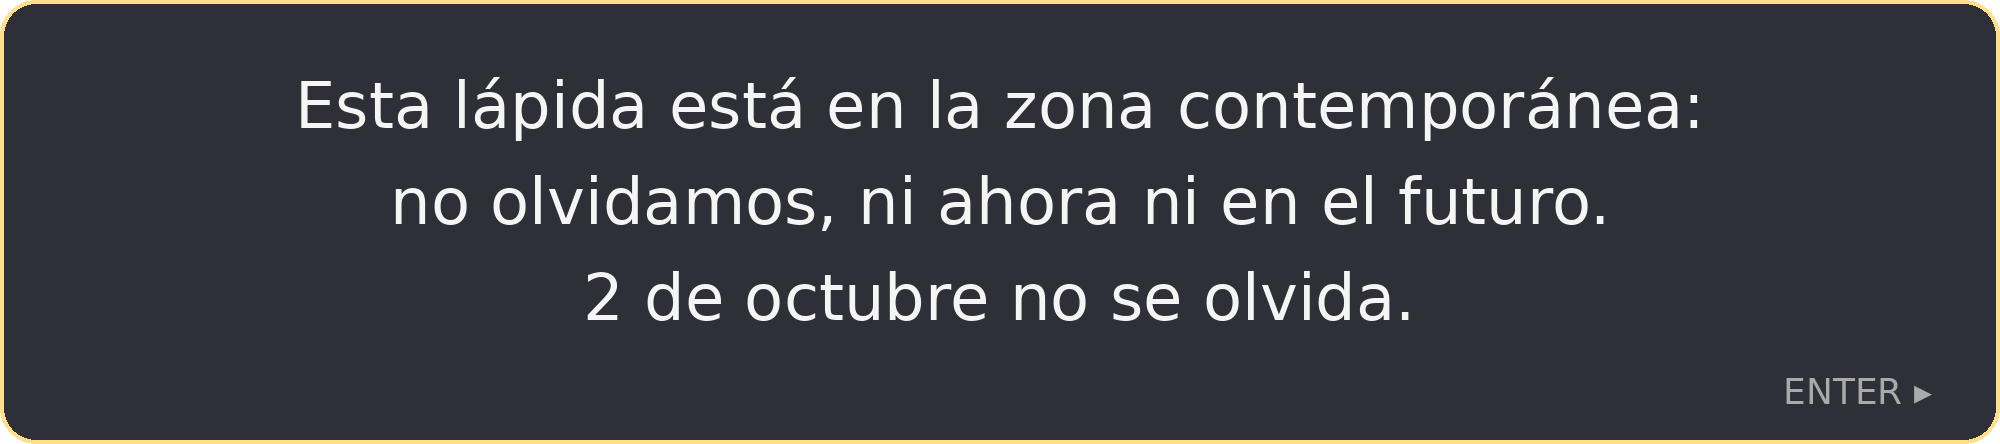
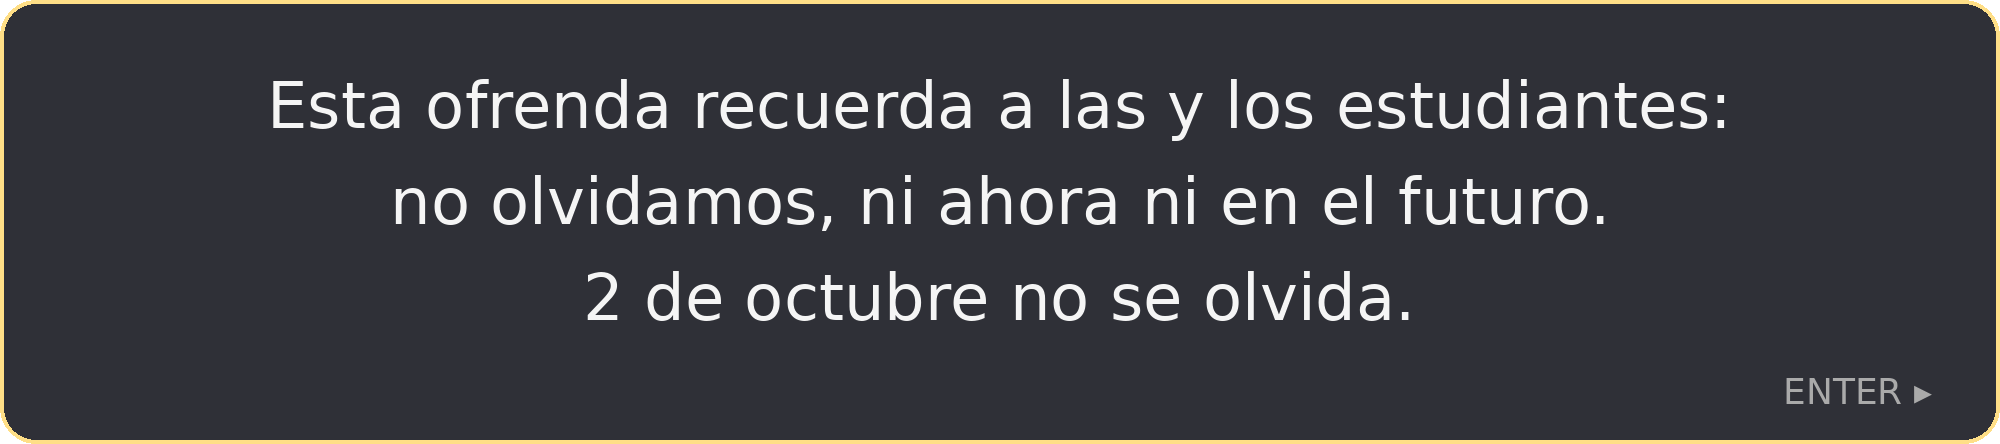
feat: modo de grabacion de video (--grabar, --eventos), texto de la escena final con la ofrenda y guion del video

Changed region(s): [[0.124, 0.1757, 0.868, 0.2928]]

diff --git a/proyecto_teoria/main.cpp b/proyecto_teoria/main.cpp
@@ -26,6 +26,16 @@
 void KeyCallback(GLFWwindow *window, int key, int scancode, int action, int mode);
 static SkinnedModel* skVictoria = nullptr;   // escena 8: CUAU con la animacion "Victory" de Mixamo (huesos)
 static float tVictoria = 0.0f, VICTORIA_ESC = 1.0f;
+// ---- modo de grabacion de video (--grabar salida.mp4 --eventos guion.txt): paso fijo de 1/30 s y eventos con tiempo ----
+struct EvVideo { float t; std::string tipo; std::string arg; float v[6]; bool hecha; };
+static int NombreATecla(const std::string& k)
+{
+	if (k == "SPACE") return GLFW_KEY_SPACE; if (k == "ENTER") return GLFW_KEY_ENTER; if (k == "LEFT") return GLFW_KEY_LEFT; if (k == "RIGHT") return GLFW_KEY_RIGHT;
+	if (k == "PGDN") return GLFW_KEY_PAGE_DOWN; if (k == "PGUP") return GLFW_KEY_PAGE_UP; if (k == "TAB") return GLFW_KEY_TAB;
+	if (k == "F1") return GLFW_KEY_F1; if (k == "F2") return GLFW_KEY_F2; if (k == "F3") return GLFW_KEY_F3; if (k == "F4") return GLFW_KEY_F4;
+	if (k.size() == 1) return (int)toupper((unsigned char)k[0]);
+	return GLFW_KEY_UNKNOWN;
+}
 static bool mostrarAyuda = false;   // F4: panel con los controles (se abre solo al entrar al modo libre con F2)
 static bool linterna = false, noche = false;   // T3: L = linterna (spot que sigue a la camara), T = dia/noche (direccional), H = luces del casco de CUAU
 static float tCaida = -1.0f;
@@ -56,7 +66,7 @@ static bool PoseRecorrido(float t, glm::vec3& pos, glm::vec3& mira)
 }                   // tecla 8: caida del SENTINEL central (-1 = de pie)
 static int huesosSel = 0;        // 0 = CUAU con clip de Mixamo (tecla 6), 1 = CUAU con Victory (tecla 7)
 static int huesosAnim = -1;      // tecla K: -1 apagado, 0..n-1 = animacion de huesos (Mixamo) del CUAU con skinning
-static float HUESOS_DIST = 18.0f, HUESOS_ESC = 0.9f;   // ajustables con las variables de entorno HUESOS_DIST y HUESOS_ESC
+static float HUESOS_DIST = 14.0f, HUESOS_ESC = 0.4f;   // ajustables con las variables de entorno HUESOS_DIST y HUESOS_ESC
 static int HUESOS_N = 1;
 static bool envActivo = true;   // tecla E: Fresnel + environment mapping (apagado = solo Phong)
 void MouseCallback(GLFWwindow *window, double xPos, double yPos);
@@ -962,6 +972,7 @@ int main(int argc, char** argv)
 	// ---- opciones de linea de comandos (pruebas): --escena N | --teclas t:TECLA,t:TECLA (SPACE ENTER LEFT RIGHT) | --foto archivo.png tiempo ----
 	struct TeclaAuto { float t; int key; bool hecha; };
 	std::vector<TeclaAuto> teclasAuto;
+	std::vector<EvVideo> eventosVideo; std::string rutaGrabar, rutaEventos; FILE* ffPipe = nullptr; float tVideo = 0.0f; std::vector<unsigned char> bufVideo;
 	std::string fotoRuta; float fotoT = -1.0f; bool camForzada = false, sinHud = false;
 	IniciarEscena(0);                                  // el relato empieza en la introduccion (--escena N lo cambia)
 	CargarAjustes();
@@ -969,6 +980,8 @@ int main(int argc, char** argv)
 	{
 		std::string a = argv[i];
 		if (a == "--escena" && i + 1 < argc) IrAEscena(atoi(argv[++i]));
+		else if (a == "--grabar" && i + 1 < argc) rutaGrabar = argv[++i];
+		else if (a == "--eventos" && i + 1 < argc) rutaEventos = argv[++i];
 		else if (a == "--sinhud") sinHud = true;   // capturas limpias: no dibuja el texto del relato
 		else if (a == "--foto" && i + 2 < argc) { fotoRuta = argv[++i]; fotoT = (float)atof(argv[++i]); }
 		else if (a == "--cam" && i + 6 < argc)   // camara fija para pruebas: --cam px py pz mx my mz
@@ -997,6 +1010,27 @@ int main(int argc, char** argv)
 		}
 	}
 	if (camForzada) { camLibre = false; }
+	if (!rutaEventos.empty())
+	{
+		std::ifstream f(rutaEventos); std::string l;
+		while (std::getline(f, l))
+		{
+			if (l.empty() || l[0] == '#') continue;
+			std::istringstream ss(l); EvVideo e{}; ss >> e.t >> e.tipo;
+			if (e.tipo == "KEY" || e.tipo == "ESCENA") ss >> e.arg;
+			if (e.tipo == "CAM") ss >> e.v[0] >> e.v[1] >> e.v[2] >> e.v[3] >> e.v[4] >> e.v[5];
+			eventosVideo.push_back(e);
+		}
+		std::printf("Guion de video: %d eventos\n", (int)eventosVideo.size());
+	}
+	if (!rutaGrabar.empty())
+	{
+		char cmd[1024];
+		std::snprintf(cmd, sizeof(cmd), "ffmpeg -y -loglevel error -f rawvideo -pix_fmt rgb24 -s %dx%d -r 30 -i - -vf vflip,scale=1280:720 -c:v libx264 -pix_fmt yuv420p -preset veryfast -crf 20 \"%s\"", SCREEN_WIDTH, SCREEN_HEIGHT, rutaGrabar.c_str());
+		ffPipe = popen(cmd, "w"); bufVideo.resize((size_t)SCREEN_WIDTH * SCREEN_HEIGHT * 3);
+		glfwSetKeyCallback(window, nullptr); glfwSetCursorPosCallback(window, nullptr); glfwSetMouseButtonCallback(window, nullptr);   // grabando: se ignora el teclado y el raton reales
+		glPixelStorei(GL_PACK_ALIGNMENT, 1);
+	}
 	lastFrame = glfwGetTime();    // el tiempo de carga de modelos no cuenta como primer cuadro
 
 	while (!glfwWindowShouldClose(window))
@@ -1004,8 +1038,25 @@ int main(int argc, char** argv)
 		GLfloat currentFrame = glfwGetTime();
 		deltaTime = currentFrame - lastFrame;
 		lastFrame = currentFrame;
+		if (ffPipe) deltaTime = 1.0f / 30.0f;   // grabando: paso fijo para que el video sea fluido
 
 		glfwPollEvents();
+		if (ffPipe || !eventosVideo.empty())
+		{
+			tVideo += deltaTime;
+			for (EvVideo& e : eventosVideo)
+			{
+				if (e.hecha || tVideo < e.t) continue;
+				e.hecha = true;
+				if (e.tipo == "KEY") { int k = NombreATecla(e.arg); KeyCallback(window, k, 0, GLFW_PRESS, 0); KeyCallback(window, k, 0, GLFW_RELEASE, 0); }
+				else if (e.tipo == "CLICKL") MouseButtonCallback(window, GLFW_MOUSE_BUTTON_LEFT, GLFW_PRESS, 0);
+				else if (e.tipo == "CLICKR") MouseButtonCallback(window, GLFW_MOUSE_BUTTON_RIGHT, GLFW_PRESS, 0);
+				else if (e.tipo == "ESCENA") IrAEscena(atoi(e.arg.c_str()));
+				else if (e.tipo == "CAM") camera.SetLookAt(glm::vec3(e.v[0], e.v[1], e.v[2]), glm::vec3(e.v[3], e.v[4], e.v[5]));
+				else if (e.tipo == "RESET") { posCuau = glm::vec3(0.0f); posSentinel = glm::vec3(0.0f, 0.0f, -30.0f); posMac = glm::vec3(12.0f, 0.0f, 6.0f); cuauOffset = glm::vec3(0.0f); cuauYaw = 0.0f; cuauTilt = 0.0f; tEsq = 0.0f; tScar = 0.0f; }   // posiciones del modo libre (para grabar)
+				else if (e.tipo == "FIN") glfwSetWindowShouldClose(window, GL_TRUE);
+			}
+		}
 		DoMovement();
 		Animation();
 		if (modoRelato)
@@ -1249,8 +1300,14 @@ int main(int argc, char** argv)
 			break;
 		}
 
+		if (ffPipe)
+		{
+			glReadPixels(0, 0, SCREEN_WIDTH, SCREEN_HEIGHT, GL_RGB, GL_UNSIGNED_BYTE, bufVideo.data());
+			fwrite(bufVideo.data(), 1, bufVideo.size(), ffPipe);
+		}
 		glfwSwapBuffers(window);
 	}
+	if (ffPipe) { pclose(ffPipe); std::printf("Video guardado: %s (%.1f s)\n", rutaGrabar.c_str(), tVideo); }
 
 	if (edSucio) GuardarAjustes();
 	glfwTerminate();

diff --git a/proyecto_teoria/UI/generar_textos.py b/proyecto_teoria/UI/generar_textos.py
@@ -36,7 +36,7 @@ PAGINAS = {
     "t8a": ["La plaza queda en silencio."],
     "t9a": ["2 de octubre de 1968"],
     "t9b": ["Para quienes no volvieron a casa.", "Para quienes siguen buscando verdad y justicia."],
-    "t9c": ["Esta lápida está en la zona contemporánea:", "no olvidamos, ni ahora ni en el futuro.", "2 de octubre no se olvida."],
+    "t9c": ["Esta ofrenda recuerda a las y los estudiantes:", "no olvidamos, ni ahora ni en el futuro.", "2 de octubre no se olvida."],
 }
 
 # ----------------------------- mensajes de accion (prompts) -----------------------------

diff --git a/docs/guion_video.md b/docs/guion_video.md
@@ -1,0 +1,45 @@
+# Guion del video demostrativo (3 a 5 minutos, duración objetivo: 4:15)
+
+Sin voz: cada tramo lleva un **rótulo** (texto en pantalla) que dice qué requisito se está viendo. Si prefieren narrar, el rótulo sirve de guion.
+Grabar a 1080p con OBS (o la grabadora de pantalla de Windows, Win+Alt+R), a pantalla completa, con el `.exe` instalado.
+
+## Antes de grabar
+- Hacer un recorrido completo del relato una vez para descartar errores.
+- Cerrar otras ventanas y notificaciones. Si el programa pide pantalla completa, abrirlo así.
+- Ensayar la secuencia de teclas abajo; el video no necesita estar corrido de una sola toma, se puede cortar por tramos.
+- Evitar pulsar **M** en la escena 3 (en una prueba en Linux se colgó ahí una vez); úsenlo en la escena 9.
+- Navegación entre escenas: **AvPag / RePag** (o **]** y **[**).
+
+## Secuencia
+
+| Tiempo | Qué se ve | Teclas | Rótulo (requisito) |
+|---|---|---|---|
+| 0:00–0:15 | Portada y escena 0: "2 de octubre de 1968" sobre la plaza | abrir programa, **ENTER** | "T68 Sci-Fi Tribute · Equipo Gundam" / "Tema: México y su cultura" |
+| 0:15–0:40 | Escena 1: obreros martillan, CUAU despierta | **AvPag**, **ESPACIO** ×3 (martillazos), **ESPACIO** (despertar) | "Animación por código: keyframes (T6, T11)" / "Skybox (T4)" |
+| 0:40–1:00 | Escena 3: CUAU levanta la MAC con sus sierras girando | **AvPag** ×2, **ESPACIO** | "Animación básica: rotación de aspas (T6, T11)" |
+| 1:00–1:20 | Escena 4: CUAU esquiva a los SENTINEL | **AvPag**, **←**, **→**, **←** | "Animación procedural: zigzag y barrido (T6, T11)" |
+| 1:20–1:40 | Escena 8: CUAU derrota a los SENTINEL y celebra | **AvPag** ×4, **ESPACIO** | "Animación de huesos: Victory de Mixamo (T5)" |
+| 1:40–2:05 | Escena 9: la ofrenda con papel picado ondeando y pétalos cayendo | **AvPag**, **ENTER** (textos) | "Animación de Blender: papel picado y pétalos (T7)" |
+| 2:05–2:25 | Recorrido de cámara por la iglesia | **M** | "Animación de Blender: recorrido de cámara (T7)" |
+| 2:25–3:00 | Iluminación y materiales: acercarse a CUAU y alternar | **F2**, **WASD** + mouse, **E** (apagar y encender), **L**, **T**, **H** | "Phong + Fresnel + environment mapping (T9, T10)" / "Luces interactivas: linterna, casco, día/noche (T3)" |
+| 3:00–3:55 | Modo libre: panel de controles abierto y las 8 animaciones por input | **2**, **3**, **4**, **5** (y **ESPACIO**), **8**, **9**, **click izq**, **click der**; dejar ~6 s cada una | "8 animaciones por input (T8)" (cambiar el rótulo con cada una: "2 Barrido", "3 Zigzag", "4 Caminata por partes", "5 Obreros", "8 Cae un SENTINEL", "9 La MAC levita", "Click izq: CUAU salta", "Click der: los SENTINEL giran") |
+| 3:55–4:05 | Extras de huesos en modo libre | **6**, **7** | "Animaciones de huesos adicionales (T5)" |
+| 4:05–4:15 | Cierre: créditos | (pantalla de rótulos) | "Modelos: Santiago Velasco, Victor Duque, Erick Echeverria · Animaciones: Mixamo · Texturas: Poly Haven · Railgun: samuel2wde (CC-BY)" |
+
+## Qué requisito aparece en cada tramo (para el reporte)
+
+| Requisito | Dónde se ve |
+|---|---|
+| T1, T2 (modelos) | Todo el recorrido; el inventario está en `docs/inventario_modelos.md` |
+| T3 (luces) | 2:25–3:00 |
+| T4 (skybox, texturizado) | 0:15 en adelante |
+| T5 (huesos) | 1:20 y 3:55 |
+| T6, T11 (código: básica, keyframes, procedural) | 0:15 a 1:20 |
+| T7 (Blender) | 1:40 a 2:25 |
+| T8 (input) | 3:00–3:55 |
+| T9, T10 (Fresnel, environment mapping) | 2:25–3:00 |
+
+## Edición y entrega
+- Rótulos: se agregan en cualquier editor (DaVinci Resolve, Clipchamp, CapCut). Fuente grande, fondo oscuro semitransparente.
+- Duración final entre 3:00 y 5:00; si se pasa de 5:00, recortar el tramo de la escena 1.
+- Subir a YouTube como "no listado" o a Drive con enlace público, y poner el enlace en el reporte (español e inglés).
